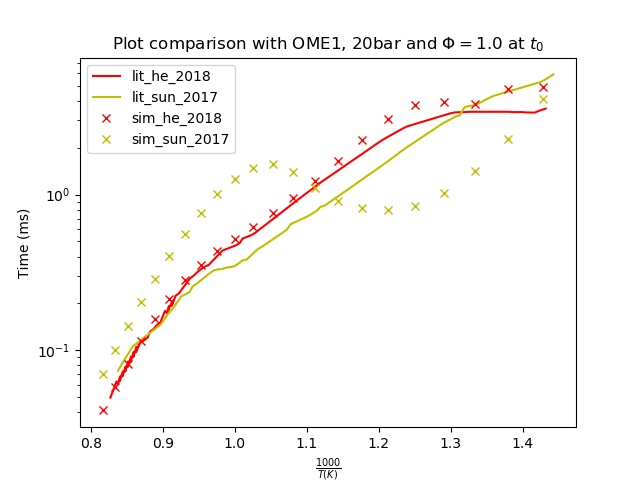
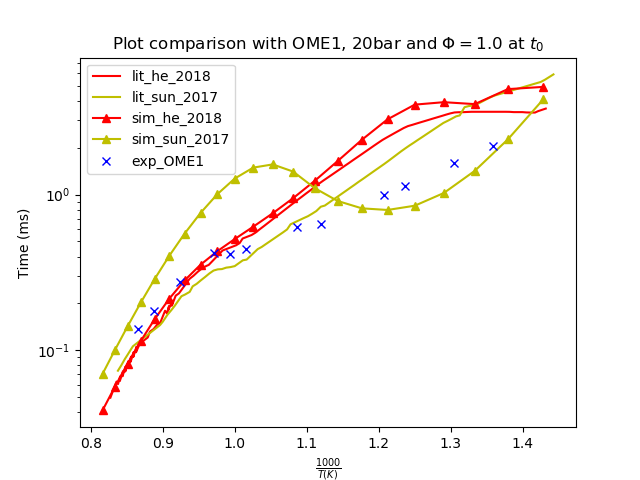
legend updated (sim; exp; lit)

diff --git a/000-homogenous_reactor/code/00005-mechanism-literature-comparison/Literature_curves.py b/000-homogenous_reactor/code/00005-mechanism-literature-comparison/Literature_curves.py
@@ -69,12 +69,18 @@ sun_2017_OME1_my = np.flip(loaddata_npy('delays_sun_2017.xml_1.0_OME1'), axis=0)
 he_2018_OME1_my[:, 2] = 1000 / he_2018_OME1_my[:, 2]
 sun_2017_OME1_my[:, 2] = 1000 / sun_2017_OME1_my[:, 2]
 
+# load the experimental data
+exp_OME1_20_1_0_path = Path(__file__).parents[2] / 'data/00004-mechanism-exp-comparison/Exp_OME1_20_1_0.csv'
+exp_OME1_20_1_0 = np.array(pd.read_csv(exp_OME1_20_1_0_path, delimiter=';', decimal=','))
+
 # Plot the data
 plt.plot(he_2018_OME1_1_20[:112, 0], he_2018_OME1_1_20[:112, 1], 'r-', label='lit_he_2018')
 plt.plot(sun_2017_OME1_1_20[:97, 0], sun_2017_OME1_1_20[:97, 1], 'y-', label='lit_sun_2017')
 
-plt.plot(he_2018_OME1_my[:, 2], he_2018_OME1_my[:, 4], 'rx', label='sim_he_2018')
-plt.plot(sun_2017_OME1_my[:, 2], sun_2017_OME1_my[:, 4], 'yx', label='sim_sun_2017')
+plt.plot(he_2018_OME1_my[:, 2], he_2018_OME1_my[:, 4], 'r^-', label='sim_he_2018')
+plt.plot(sun_2017_OME1_my[:, 2], sun_2017_OME1_my[:, 4], 'y^-', label='sim_sun_2017')
+
+plt.plot(exp_OME1_20_1_0[:12, 0], exp_OME1_20_1_0[:12, 1], 'bx', label='exp_OME1')
 
 plt.yscale('log')
 plt.legend()
